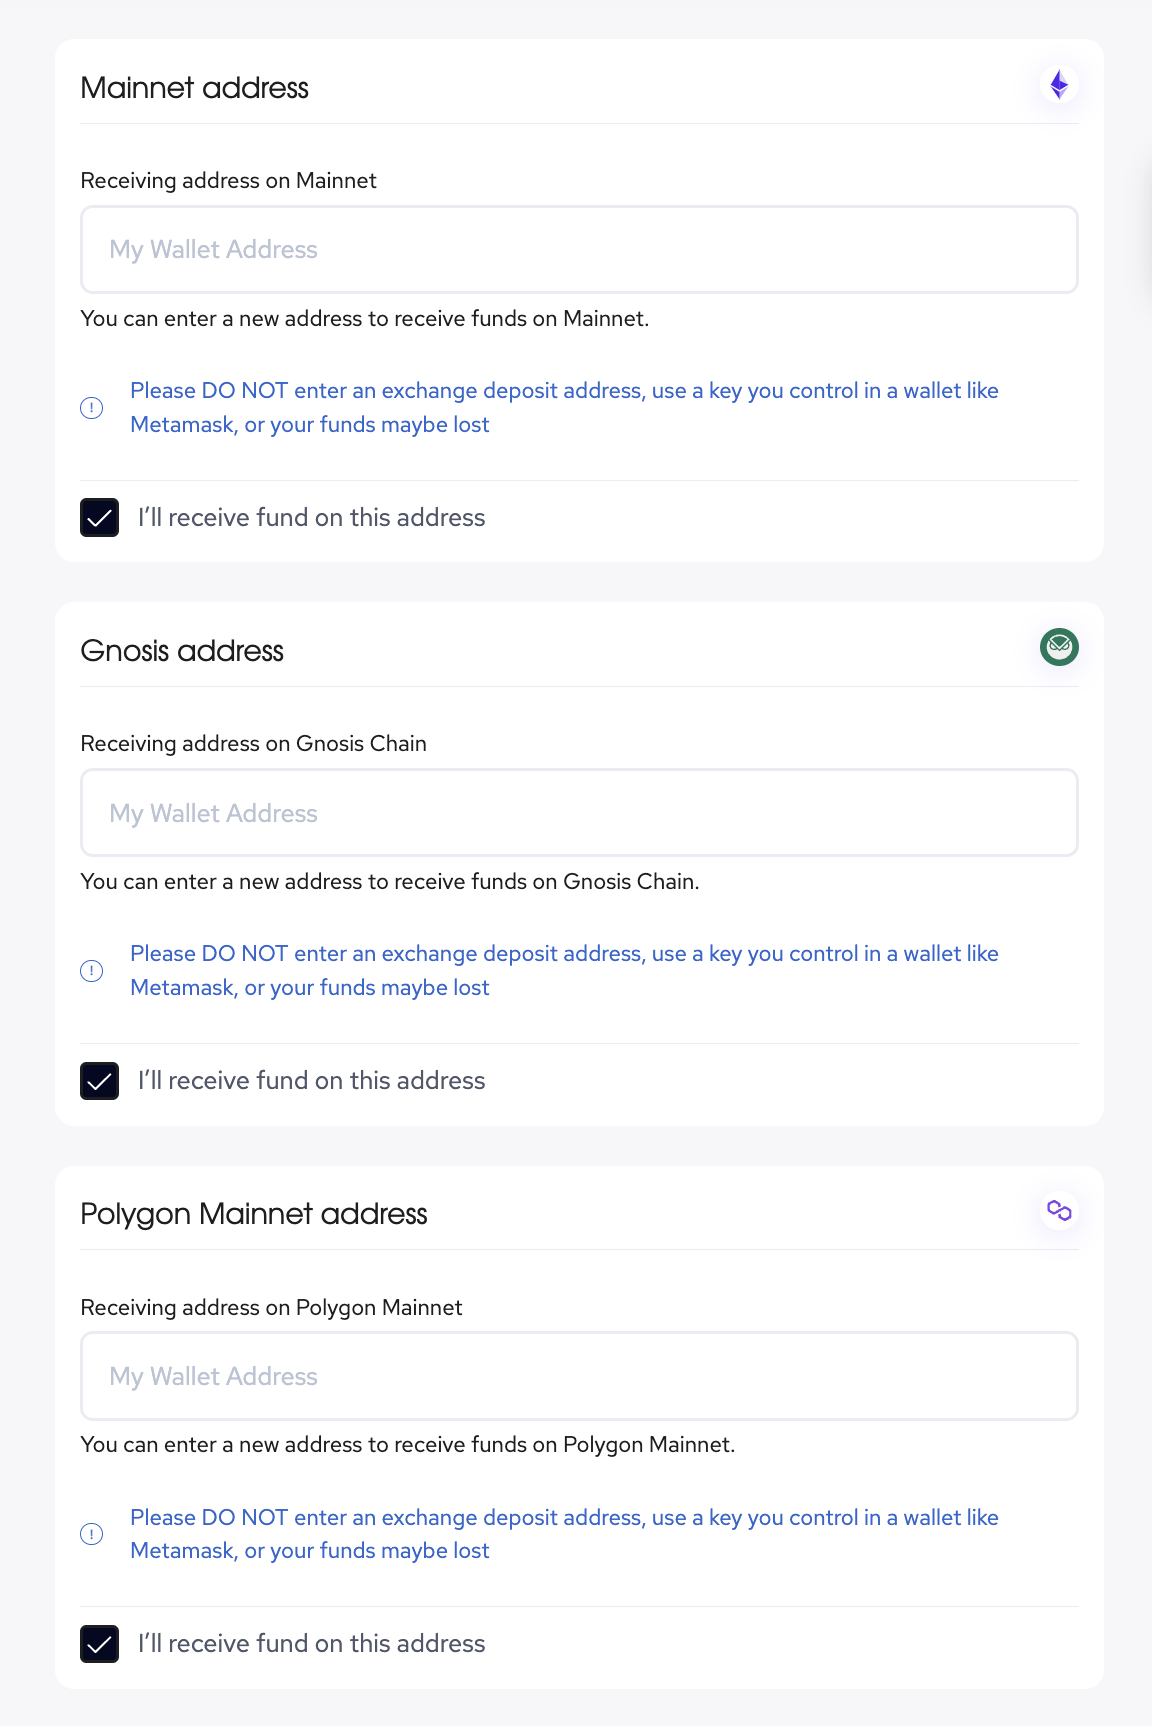
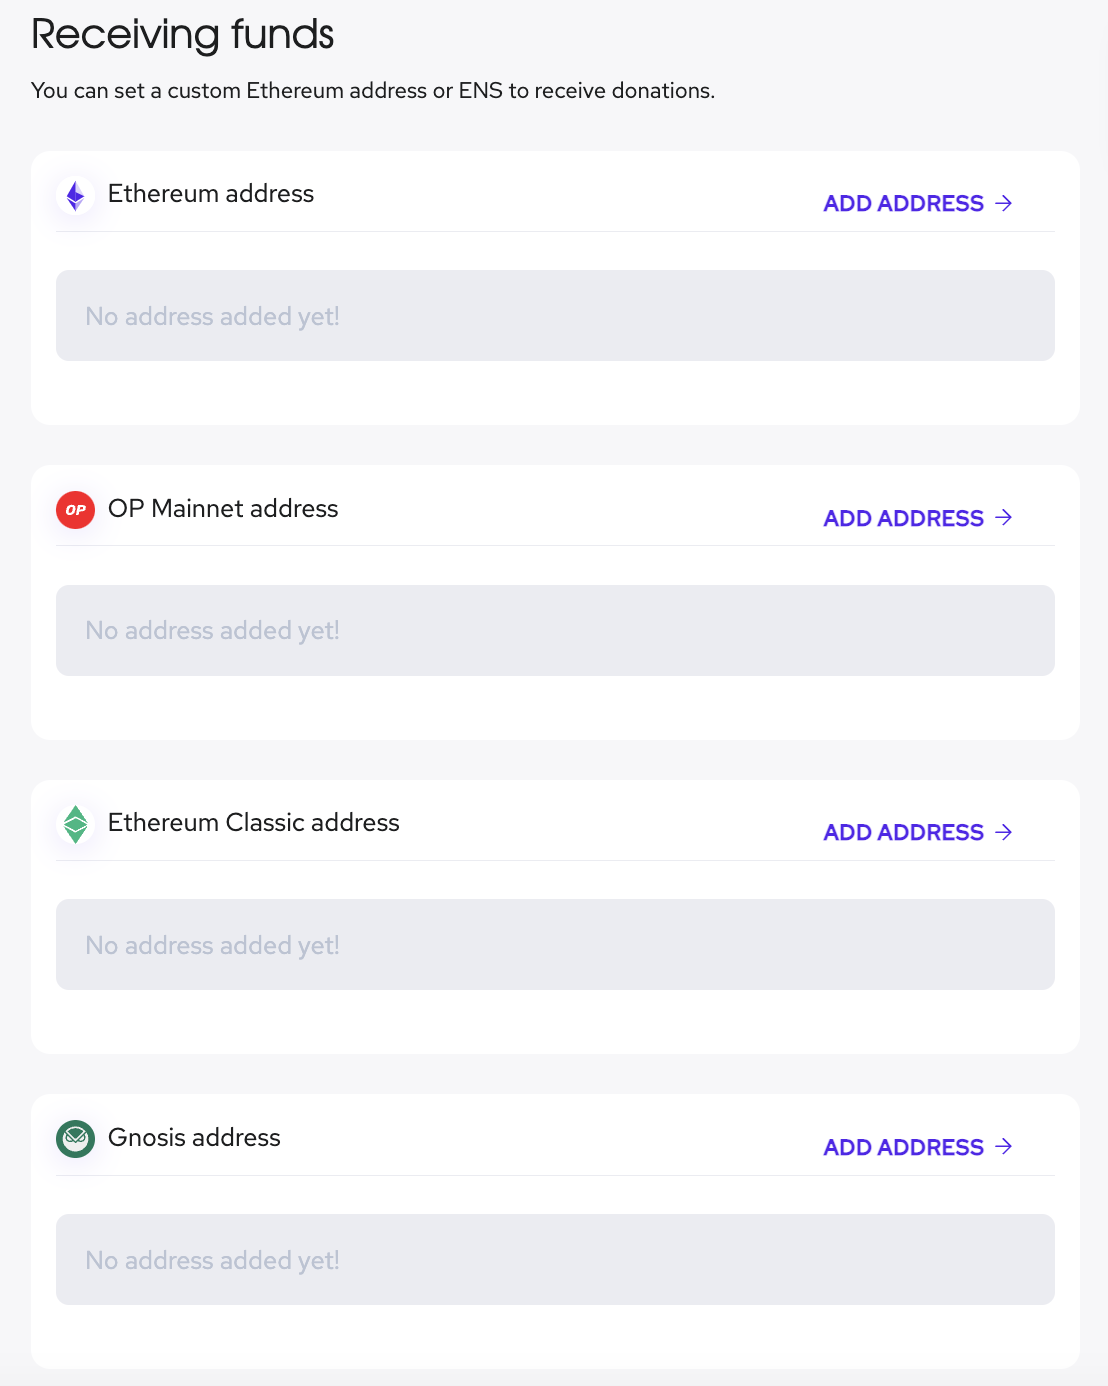
ETC update in docs

diff --git a/dapps/donatingmetamask.md b/dapps/donatingmetamask.md
@@ -18,7 +18,7 @@ Once you have chosen a project and set an amount to donate, go ahead and click t
 
  <img id="contentimg" alt='Confirm Metamask transaction' src={useBaseUrl('img/content/metamaskconfirmTransaction.png')} />
 
-Verify that the amount on the Metamask pop-up corresponds with the amount you specified on the project page. Take note that the gas fee from the Ethereum network or Gnosis Chain will be added on top of the donation amount. Make sure you have enough Ethereum or xDAI in your wallet to cover the gas fees, otherwise the transaction cannot be completed.
+Verify that the amount on the Metamask pop-up corresponds with the amount you specified on the project page. Take note that the gas fee from the network you are donating in will be added on top of the donation amount. Make sure you have enough tokens in your wallet to cover the gas fees, otherwise the transaction cannot be completed.
 
  If it looks good, hit `CONFIRM`, and your donation transaction will begin. You should see a pop-up that looks like this:
 
@@ -30,5 +30,4 @@ Once the transaction has been confirmed on the blockchain, you'll be taken to th
 
  <img id="contentimg" alt='Successful Donation' src={useBaseUrl('img/content/metamaskSuccessfulDonation.png')} />
 
-### To Donate with xDai
-If you're tired of paying outrageous gas fees on Mainnet Giveth supports donations on the Gnosis Chain (formerly xDai Network). To get Metamask [setup on the Gnosis Chain go here](https://docs.gnosischain.com/tools/wallets/metamask/). Log in with Gnosis Chain via MetaMask on Giveth.io. You can follow the same process for making donations on Gnosis Chain as on Mainnet.
+

diff --git a/dapps/givbacks.md b/dapps/givbacks.md
@@ -28,7 +28,7 @@ To learn more about the project verification process check out our [documentatio
 
 ## Tokens Eligible for GIVbacks
 
-A donor can donate any ERC-20 token to projects on Giveth.io on Gnosis Chain, Polygon, Celo, Optimism or Ethereum Mainnet. However, only donations to verified projects in certain tokens are eligible for GIVbacks. This restriction ensures that we are able to get accurate price data for donations (a requirement for fair distribution of GIVbacks), and prevents bad actors from gaming the GIVbacks program. To see the full list of eligible tokens, visit [this forum post](https://forum.giveth.io/t/givbacks-token-list/253).
+A donor can donate any ERC-20 token to projects on Giveth.io on Gnosis Chain, Polygon, Celo, Optimism, Ethereum Mainnet or Classic. However, only donations to verified projects in certain tokens are eligible for GIVbacks. This restriction ensures that we are able to get accurate price data for donations (a requirement for fair distribution of GIVbacks), and prevents bad actors from gaming the GIVbacks program. To see the full list of eligible tokens, visit [this forum post](https://forum.giveth.io/t/givbacks-token-list/253).
 
 ## Getting GIVbacks
 During each round, all donations to verified projects on the DApp are tracked, and this data is used to calculate the amount of GIVbacks received by each Giver for that period.

diff --git a/dapps/guide1-createproject.md b/dapps/guide1-createproject.md
@@ -44,7 +44,7 @@ Follow the prompts, and input the requested content:
  - Alternatively, click the tab `Search for photos`, and enter a keyword.
  <img alt='featuredimage2' src={useBaseUrl('img/cryptofundraising8.png')} />
 
- - Your recipient address is where donations to your project will be collected. You can choose to set a single recipient address that can receive donations on Mainnet, Gnosis Chain, Polygon, Celo and Optimism, or set a different recipient address for each chain:
+ - Your recipient address is where donations to your project will be collected. You can choose to set a single recipient address that can receive donations on Ethereum Mainnet, Gnosis Chain, Polygon, Celo, Optimism and Ethereum Classic or set a different recipient address for each chain:
 
     * Set one address to receive donations on all supported networks.
     

diff --git a/dapps/projectdonating.md b/dapps/projectdonating.md
@@ -17,7 +17,7 @@ Once you find a project you would like to donate to, hit the `DONATE` button.
 
 
 #### Crypto Donations
-Projects accept ETH and a wide variety of ERC-20 tokens on Mainnet, Gnosis Chain, Polygon, Celo, and Optimism, allowing for donations with different tokens within these networks.
+Projects accept ETH and a wide variety of ERC-20 tokens on Ethereum Mainnet, Gnosis Chain, Polygon, Celo, Optimism and Ethereum Classic allowing for donations with different tokens within these networks.
 
 <details>
 <summary><b><i>See a full list of the accepted tokens</i></b></summary>
